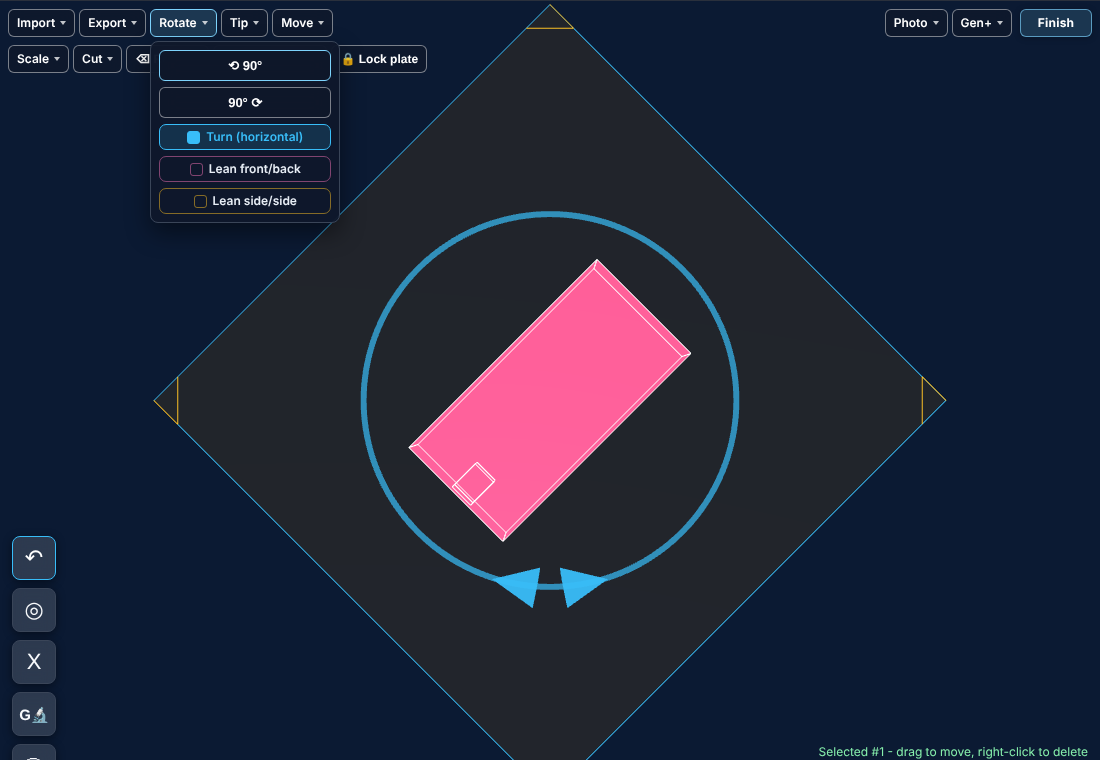
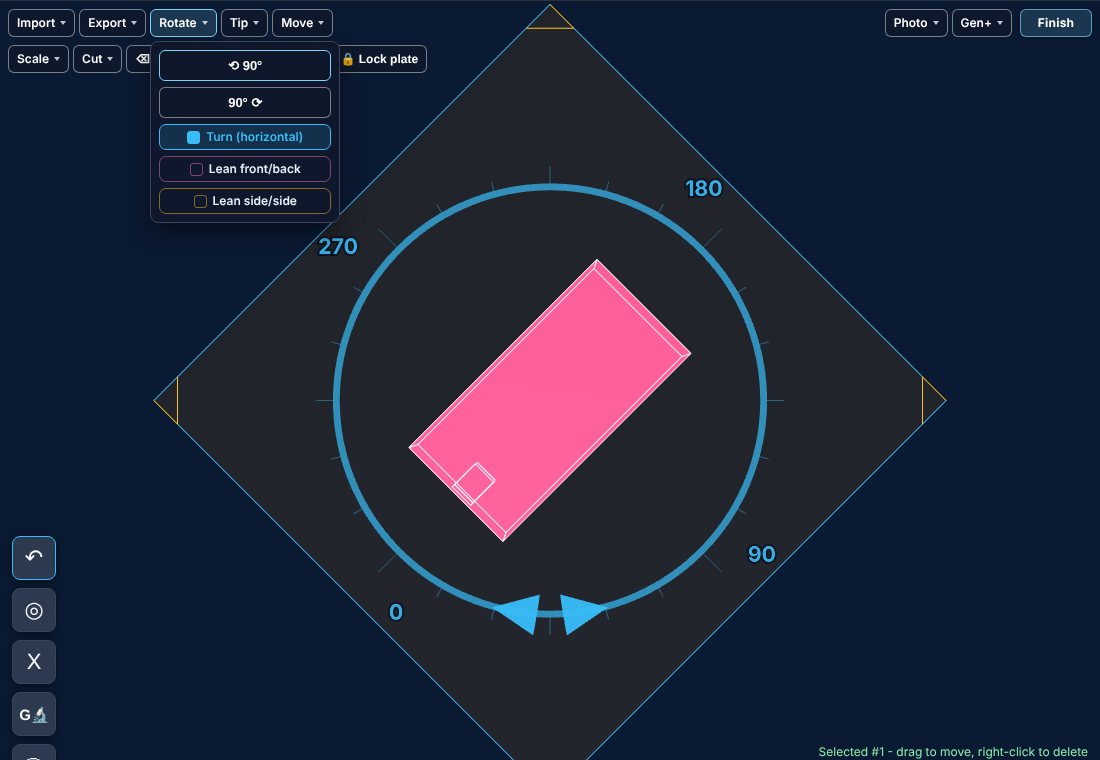
Pose drive-check: turn back the 45° by keys, not past the Undo cap; regenerate screenshots on #141
Claude-Session: https://claude.ai/code/session_017r84cJ9y9NHdduKDmgfGnS

diff --git a/tools/nso_pose_buttons_drive_check.js b/tools/nso_pose_buttons_drive_check.js
@@ -261,7 +261,7 @@ withApp(async (page, logs) => {
   const rolled = await N(() => ({ long: window.__d.own([1, 0, 0]), width: window.__d.own([0, 0, 1]) }));
   console.log('   old tiltX += 30 from this pose would have been ' + old1b.deg.toFixed(3) + '° about ' + fmtAxis(old1b.axis) +
     ' - the plate\'s X, 45° off the piece');
-  check('Tilt ↑ twice rolls it 30° about its OWN length (own X, at heading 45°)',
+  check('Tilt ↑ twice rolls it 30° about its OWN length (own X, turned 45° with the piece)',
     near(r.deg, 30, 1e-6) && same(r.axis, at45.long), r.deg.toFixed(9) + '° about ' + fmtAxis(r.axis));
   check('...no twist: its length stays level on the same heading',
     same(rolled.long, at45.long), fmtAxis(at45.long) + ' -> ' + fmtAxis(rolled.long));
@@ -279,9 +279,9 @@ withApp(async (page, logs) => {
   await press('#btn-bank-dn'); await press('#btn-bank-dn');
   r = await N(q => window.__d.delta(q), at45.q);
   const ended = await N(() => ({ long: window.__d.own([1, 0, 0]), width: window.__d.own([0, 0, 1]) }));
-  check('Tilt ← twice tips it 30° about its OWN width line (own Z, at heading 135°)',
+  check('Tilt ← twice tips it 30° about its OWN width line (own Z, turned 45° with the piece)',
     near(r.deg, 30, 1e-6) && same(r.axis, at45.width), r.deg.toFixed(9) + '° about ' + fmtAxis(r.axis));
-  check('...end-over-end: its length rises 30° on its own 45° heading',
+  check('...end-over-end: its length rises 30° and keeps its heading',
     near(Math.abs(elev(ended.long)), 30, 1e-6) && near(heading(ended.long), heading(at45.long), 1e-6),
     'elevation ' + elev(ended.long).toFixed(6) + '°, heading ' + heading(ended.long).toFixed(6) + '°');
   check('...no twist: its width line has not moved', same(ended.width, at45.width), fmtAxis(ended.width));
@@ -290,9 +290,16 @@ withApp(async (page, logs) => {
   await N(c => window.__d.cam(c[0], c[1], c[2]), CAM_SIDE);
   await shot(page, '01f-turned-45-tilt-left-x2-camB');
   await undo(); await undo();
-  for (let i = 0; i < 45; i++) await undo();
+  r = await N(q => window.__d.delta(q), at45.q);
+  check('two Undos: back to the 45° turn', r.deg < 1e-6, r.deg.toExponential(2) + '°');
+  /* the 45 key presses back the other way - more than the Undo stack holds */
+  await N(() => window.__d.cam(0.01, 300, 0.01));
+  await openMenu('menu-rotate');
+  for (let i = 0; i < 45; i++) await page.keyboard.press('ArrowRight');
+  await page.waitForTimeout(80);
   r = await N(q => window.__d.delta(q), start.q);
-  check('two Undos for the Tilts and 45 for the ring\'s key presses: flat again', r.deg < 1e-6, r.deg.toExponential(2) + '°');
+  check('45 presses of the other arrow key: flat and square again', r.deg < 1e-6, r.deg.toExponential(2) + '°');
+  await openMenu('menu-tip');
 
   /* ------------------------------------------------------------------- 2 */
   console.log('\n=== 2. Stand it, then Tilt ← ===');
